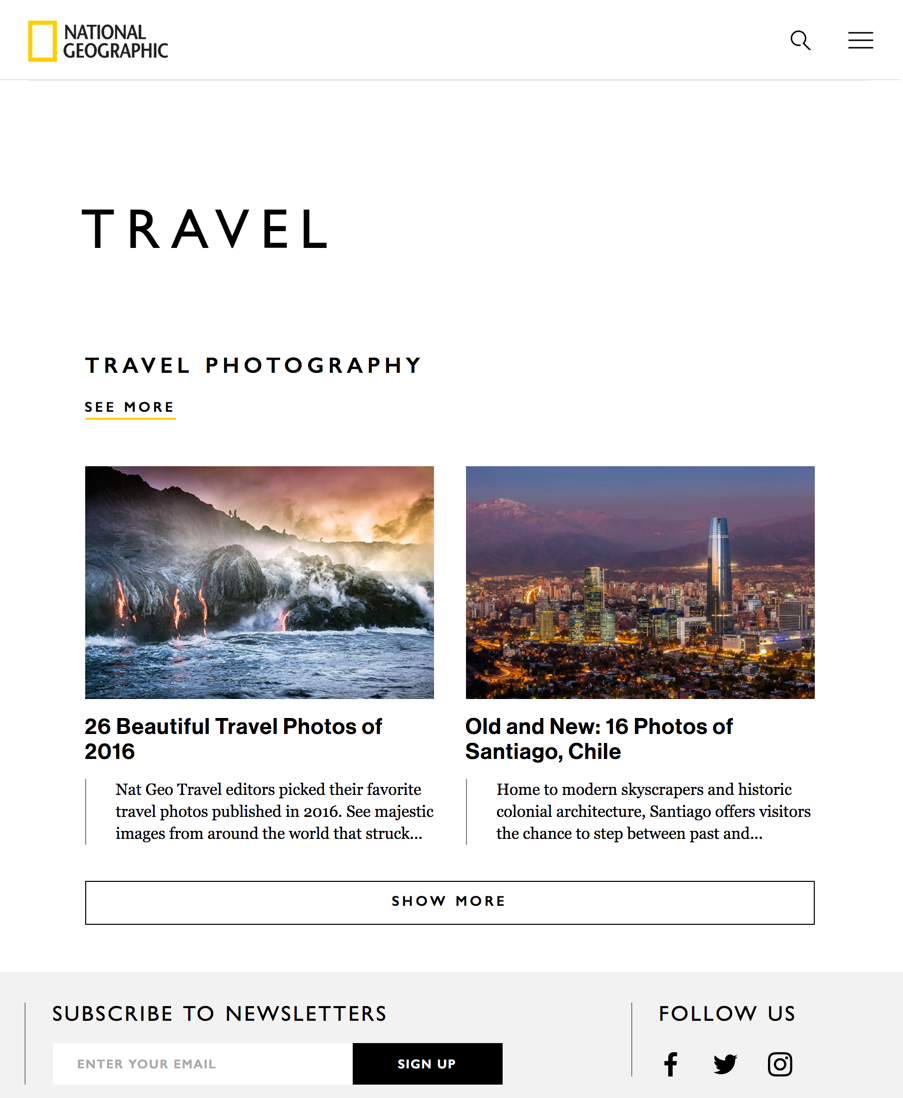
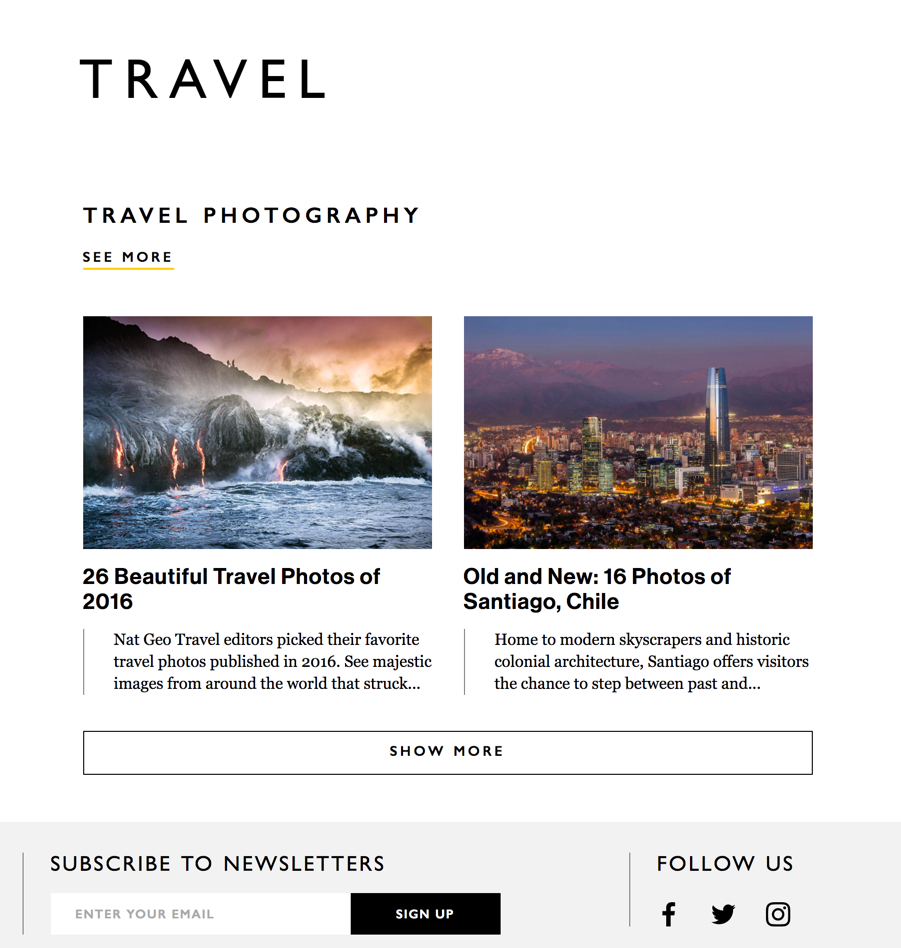
updating the html

diff --git a/index.html b/index.html
@@ -2,9 +2,56 @@
 <html>
 	<head>
 		<meta charset="utf-8">
-		<title>Natty Geo</title>
+		<title>National Geographic | Travel</title>
 	</head>
 	<body>
-		
+		<div id="app-container">
+			<header class="major-topic">
+				<h1>TRAVEL</h1>
+			</header>
+
+			<section class="content-section">
+				
+				<h3>TRAVEL PHOTOGRAPHY</h3>
+				
+				<h5>SEE MORE</h5>
+				
+				<div class="column-container article-previews">
+					
+					<article class="synopsis">
+						<h4>26 Beautiful Travel Photos of 2016</h4>
+						<p>Nat Geo Gravel editors picked their favorite travel photos published in to17. See majestic images from around the world that struck...</p>
+					</article>
+
+					<article class="synopsis">
+						<h4></h4>
+						<p>Home to modern skyscrapers and historic colonial architecture, Santiago offers visitors the chance step between past and ...</p>
+					</article>
+
+				</div>
+
+				<button>SHOW MORE</button>
+
+			</section>
+
+			<footer class="column-container">
+
+				<div class="subscribe-column">
+					<h3>Subscribe to Newsletters</h3>
+					<form class="enter-email">
+						<input type="text">
+						<button>SIGN UP</button>
+					</form>
+				</div>
+
+				<div class="follow-column">
+					<h3>Follow Us</h3>
+					<div class="social-media-icons">
+						
+					</div>
+				</div>
+
+			</footer>
+		</div>
 	</body>
 </html>
